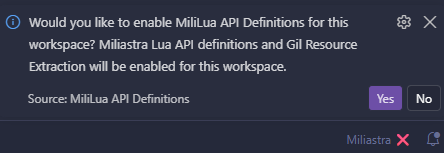
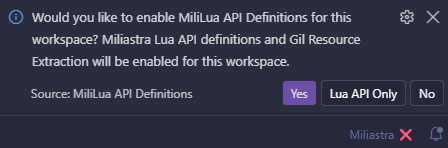
update readme

diff --git a/README.md b/README.md
@@ -1,5 +1,7 @@
 # MiliLua API Definitions for VS Code
-MiliLua API Definitions is a VS Code extension that provides IntelliSense and extended tooling for the Miliastra Wonderland Lua API based on definitions and documentation from the [miliastra-lua-api repo](https://github.com/haminpants/miliastra-lua-api). See [Privacy and Additional Notes](#privacy-and-additional-notes) for info on how your data is handled by this extension.
+MiliLua API Definitions is a VS Code extension that provides IntelliSense and extended tooling for the Miliastra Wonderland Lua API based on definitions and documentation from the [miliastra-lua-api repo](https://github.com/haminpants/miliastra-lua-api).
+
+See [Privacy and Additional Notes](#privacy-and-additional-notes) for info on how your data is handled by this extension.
 
 ## Features
 - Complete definitions for all types, fields, functions, globals, and enums.
@@ -18,9 +20,9 @@ Get the extension from the [Visual Studio Code Marketplace](https://marketplace.
 ## Usage
 
 ### Save Explorer Instructions
-1. Open the "Miliastra Save Explorer" in the Activity Bar, then select the save that you want to open.
+1. Open the Miliastra Toolkit menu in the Activity Bar, then select the save that you want to open in the Save Explorer.
 
-    ![A screenshot showing an example of the Save Explorer.](/resources/readme/example_save_explorer.png)
+    ![A screenshot that highlights where the Miliastra Toolkit can be found in the Activity Bar.](/resources/readme/toolkit_save_explorer.png)
 2. Select "Yes" when prompted to enable MiliLua for the current workspace.
 
     ![A screenshot of the popup asking to enable MiliLua API Definitions for the current workspace.](/resources/readme/enable_prompt.png)
@@ -40,7 +42,7 @@ Get the extension from the [Visual Studio Code Marketplace](https://marketplace.
 
 ## Troubleshooting
 
-Hover over the status bar entry to diagnose common issues.
+Hover over the "Miliastra" status bar entry to diagnose common issues. Click the suggested link to resolve issues.
 
 ![Example diagnostic provided by the status bar entry.](/resources/readme/example_troubleshooting.png)
 
@@ -48,15 +50,17 @@ Hover over the status bar entry to diagnose common issues.
 |Setting|Type|Description|
 |-|-|-|
 |`mililua.enableDefinitions`|`boolean`|(Workspace only) Whether to enable Miliastra Wonderland Lua API support for the current workspace.|
-|`mililua.extractGilResources`|`boolean`|(Workspace only) Whether to attempt resource extraction from the .gil file matching the current workspace folder name.|
+|`mililua.extractGilResources`|`boolean`|(Workspace only) Whether to attempt resource extraction from the `.gil` file matching the current workspace folder name.|
 
-## Save Explorer
-The Save Explorer is a view added to the activity bar, allowing you to quickly locate stage saves on your device. Clicking a stage entry will automatically open that save in VS Code. Use the refresh button to update the listed stages.
+## Miliastra Toolkit
+The Miliastra Toolkit is a view added to the activity, enabling quick access to saves on the local device.
+### Save Explorer
+The Save Explorer is the primary view displayed in the Miliastra Toolkit, allowing you to quickly open  saves on your device. Clicking a stage entry will automatically open that save in VS Code. Use the refresh button to update the listed stages.
 
-![A screenshot showing an example of the Save Explorer.](/resources/readme/example_save_explorer.png)
+![A screenshot showing an example of the Save Explorer.](/resources/readme/toolkit_save_explorer.png)
 
 ## Resource Extraction
-When the "Extract Gil Resources" setting is enabled for your current workspace, the extension will automatically attempt to extract resources from the Gil file matching the workspace folder name whenever a save occurs in the Miliastra editor.
+When the "Extract Gil Resources" setting is enabled for your current workspace, the extension will automatically attempt to extract resources from the `.gil` file matching the workspace folder name whenever a save occurs in the Miliastra editor.
 
 |Extracted Resource|Description|File|
 |-|-|-|
@@ -88,9 +92,9 @@ When the "Extract Gil Resources" setting is enabled for your current workspace, 
 
 ## Privacy and Additional Notes
 - **Unless specified below, no data, files, or analytics are sent to any third-party service.**
-- **This extension does not modify Gil files.**
+- **This extension does not modify `.gil` files.**
 - Genshin account names are fetched by querying the [Enka.Network](https://enka.network/) API using UIDs found in the `BeyondLocal` directory.
-- Save names are fetched by only decoding the save name parameter in Gil files discovered in the `BeyondLocal` directory.
+- Save names are fetched by only decoding the save name parameter in `.gil` files found in the `BeyondLocal` directory.
 - Symlinks are ignored by the Save Explorer.
 - Gil Resource Extraction can be disabled separately from Lua API support.
 - Lua definition files in the `.gil_resources` folder **should not** be mapped in the Client Script Resource Explorer.
